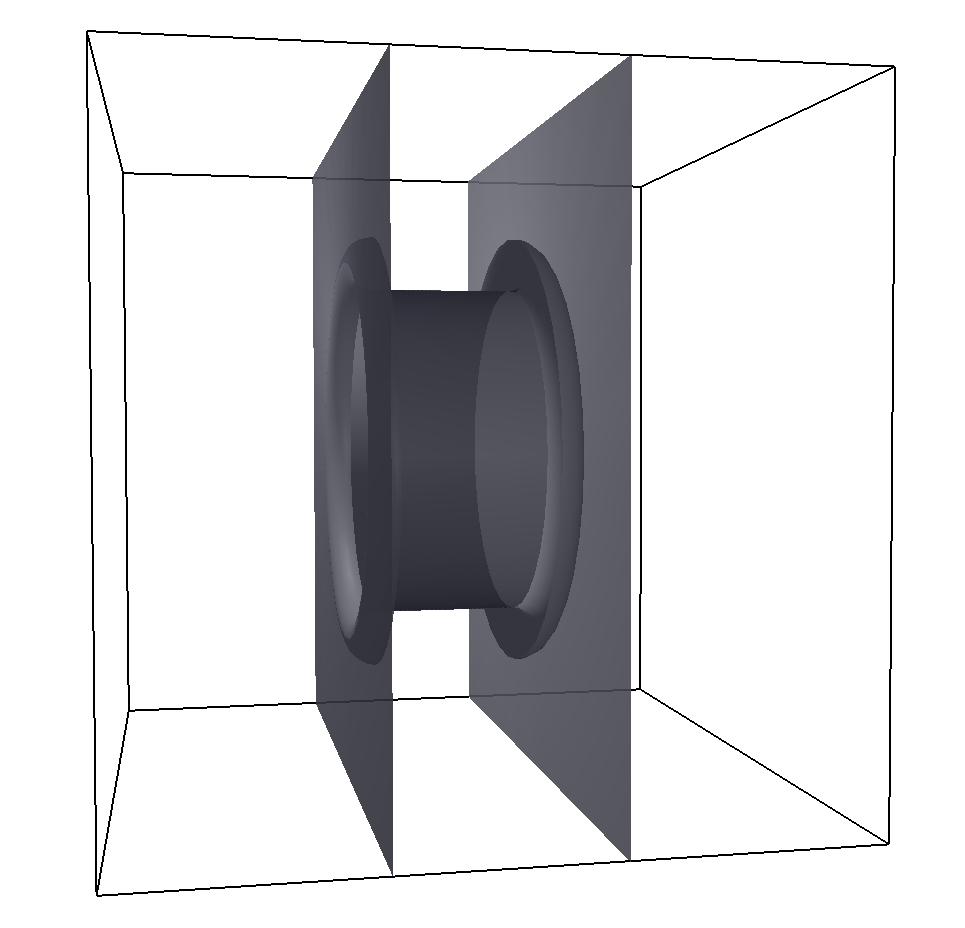
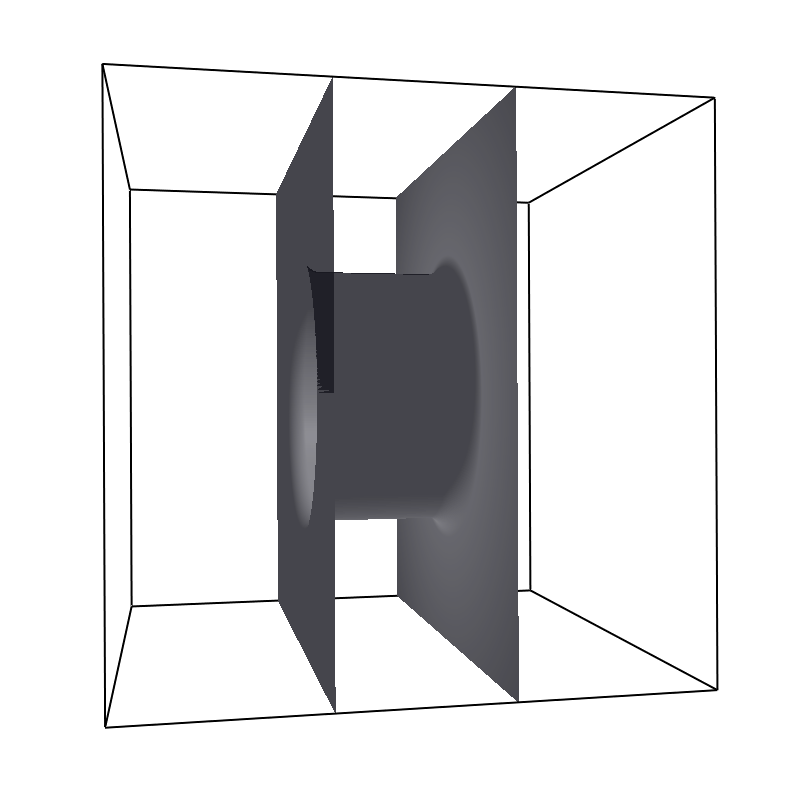
Update sphinx doc; add Note concerning OpenGLE.

diff --git a/doc/sphinx/visualization.rst b/doc/sphinx/visualization.rst
@@ -119,6 +119,15 @@ Optional keywords:
     * Have a look at the attribute list in :class:`espressomd.visualization.openGLLive()`
 
 
+.. note::
+
+  The visualization of some constraints is either improved by (:class:`espressomd.shapes.SimplePore`)
+  or even relies on (:class:`espressomd.shapes.HollowConicalFrustum`) the presence of an installed
+  `OpenGL Extrusion library` on your system. Typically, the library will be available through the
+  default package manager of your operating system. On Ubuntu the required package is called ``libgle3-dev``,
+  on Fedora ``libgle`` -- just to name two examples.
+
+
 .. _Running the visualizer:
 
 Running the visualizer
